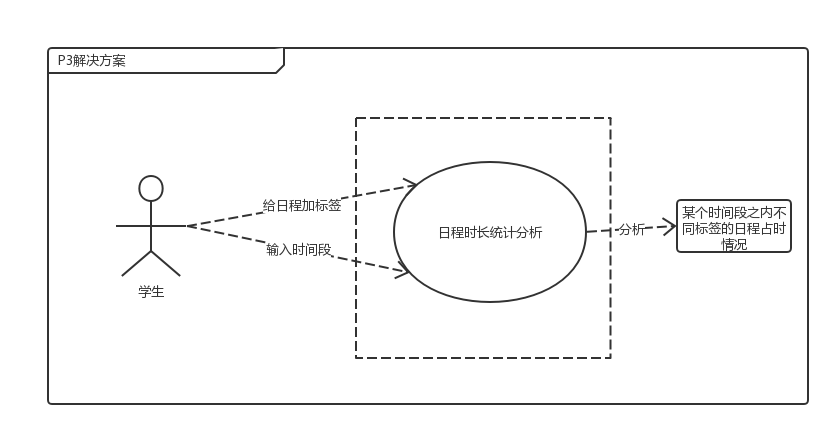
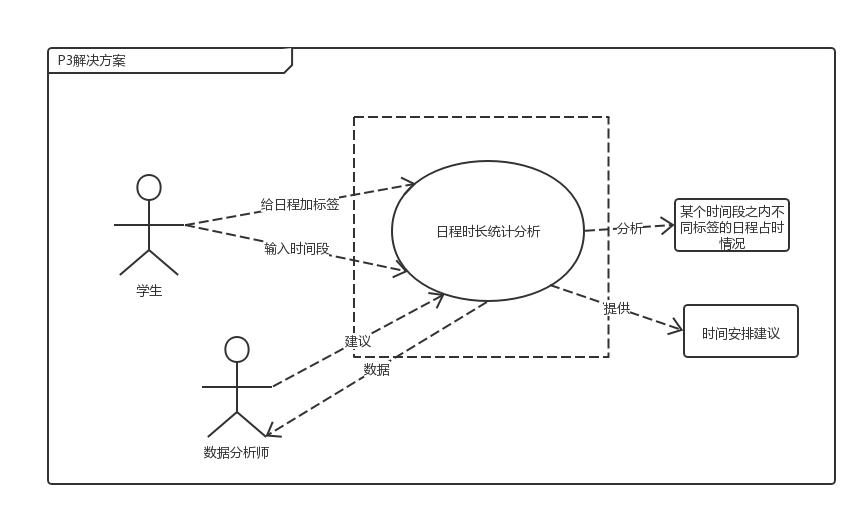
在解决方案部分增加数据分析师的有关内容

diff --git a/过程分析文档.md b/过程分析文档.md
@@ -1,3 +1,5 @@
+
+
 # 课程与日程管理系统过程分析文档
 
 **南京大学软件学院16级本科**
@@ -161,21 +163,21 @@
  在明确问题的同时，我们同步进行了涉众分析。通过涉众识别，我们得到了以下涉众扩展特征描述表：
 
 | 涉众       | 特征                                                 | 主要目标                                                  | 态度                                                         | 主要关注点                                           | 约束条件                             |
-  | ---------- | ---------------------------------------------------- | --------------------------------------------------------- | ------------------------------------------------------------ | ---------------------------------------------------- | ------------------------------------ |
-  | 学生       | 工作日里都或多或少有课程安排                         | 利用好课余时间，使自己更加充实                            | 支持                                                         | 保证自己能够更加合理的安排时间，提高自我的学习效率。 | 无                                   |
-  | 老板       | 项目的投资者                                         | 获得收益                                                  | 强烈支持                                                     | 能够有更多的学生使用该app，扩大产品的流量            | 可能没有足够多懂得使用软件系统 |
-  | 数据分析员 | 能够对学生的日程安排进行分析，给学生提出日程安排建议 | 能够及时地帮助学生提出均衡合适的安排建议 | 支持，但是担心自己会因给出建议效果不佳，学生卸载软件，导致丢掉工作 | 为学生制定个人化的日程时间安排                       | 无                                   |
-  | 教务平台   | 存储了学生的课程信息                                 | 当请求导出课程表时，能返回课程表信息                      | 支持                                                         | 能够方便地导出课程表                                 | 无                                   |
-  | 社交平台   | 动态分享                                             | 能够将系统生成的待办事物列表分享到社交平台上                  | 支持                                                             | 能够实时地分享待办事物列表到社交平台上                   | 无                                     |
- 
+| ---------- | ---------------------------------------------------- | --------------------------------------------------------- | ------------------------------------------------------------ | ---------------------------------------------------- | ------------------------------------ |
+| 学生       | 工作日里都或多或少有课程安排                         | 利用好课余时间，使自己更加充实                            | 支持                                                         | 保证自己能够更加合理的安排时间，提高自我的学习效率。 | 无                                   |
+| 老板       | 项目的投资者                                         | 获得收益                                                  | 强烈支持                                                     | 能够有更多的学生使用该app，扩大产品的流量            | 可能没有足够多懂得使用软件系统 |
+| 数据分析员 | 能够对学生的日程安排进行分析，给学生提出日程安排建议 | 能够及时地帮助学生提出均衡合适的安排建议 | 支持，但是担心自己会因给出建议效果不佳，学生卸载软件，导致丢掉工作 | 为学生制定个人化的日程时间安排                       | 无                                   |
+| 教务平台   | 存储了学生的课程信息                                 | 当请求导出课程表时，能返回课程表信息                      | 支持                                                         | 能够方便地导出课程表                                 | 无                                   |
+| 社交平台   | 动态分享                                             | 能够将系统生成的待办事物列表分享到社交平台上                  | 支持                                                             | 能够实时地分享待办事物列表到社交平台上                   | 无                                     |
+
  #### 2.2 涉众评估
- 
+
  为了得到更深层次的涉众信息，我们采用了优先级评估涉众的方法，做出了如下User/Task 矩阵，用来评估涉众的优先级：
- 
-   | 用户群体   | 任务                                                         | 群体数量 | 优先级 |
-   | ---------- | ------------------------------------------------------------ | -------- | ------ |
-   | 学生       | 查看课程表，制定一段日期内的日程安排，查看某段日程安排的时间分配情况，可以分享自己的待办事项列表。 | 数量不限 | 5      |
-  | 数据分析员 | 给学生提出日程安排建议                                       | 10       | 2      |
+
+| 用户群体   | 任务                                                         | 群体数量 | 优先级 |
+| ---------- | ------------------------------------------------------------ | -------- | ------ |
+| 学生       | 查看课程表，制定一段日期内的日程安排，查看某段日程安排的时间分配情况，可以分享自己的待办事项列表。 | 数量不限 | 5      |
+| 数据分析员 | 给学生提出日程安排建议                                       | 10       | 2      |
 
 
 ### 3. 发现业务需求
@@ -205,18 +207,18 @@
 | ID     | P3                                                           |
 | 提出者 | 老板                                                         |
 | 关联者 | 学生                                                         |
-| 问题   | 不能了解日程安排情况，没有时长统计分析，学生得到的数据分析不直观 |
+| 问题   | 不能了解日程安排情况，学生得到的时长统计分析不直观不明确     |
 | 影响   | 学生不能制定标签来划分自己的时间安排分析                     |
 | 目标   | 第一版应用之后的3个月，90%以上的学生通过该系统的标签生成统计信息 |
 
-| 要素   | 内容                                                   |
-| ------ | ------------------------------------------------------ |
-| ID     | P4                                                     |
-| 提出者 | 老板                                                   |
-| 关联者 | 学生                                                   |
-| 问题   | 不能生成便于分享的每日待办事项，软件分享量过低         |
-| 影响   | 学生不能方便地与他人交流自己的安排，且不利于系统的推广 |
-| 目标   | 第一版应用之后的3个月，该应用的分享量达3万次           |
+| 要素   | 内容                                                        |
+| ------ | ----------------------------------------------------------- |
+| ID     | P4                                                          |
+| 提出者 | 老板                                                        |
+| 关联者 | 学生                                                        |
+| 问题   | 不能生成便于分享的每日待办事项，软件使用量分享量过低        |
+| 影响   | 学生不能方便地与他人交流自己的安排，且不利于系统的推广      |
+| 目标   | 第一版应用之后的3个月，该应用的使用量达5万次，分享量达3万次 |
 
 
 
@@ -230,7 +232,7 @@
 | ---- | ------------------------------------------------------------ |
 | P1   | S1:提供教务网导入或手动输入课程信息的功能，并可以生成相应的日程安排 |
 | P2   | S2:提供供用户输入事项并帮助其进行日程安排的功能              |
-| P3   | S3:允许用户给日程添加标签<br />S4:提供根据标签和时间段进行查看日程情况的功能<br />S5:找到并提供比较有价值的分析数据 |
+| P3   | S3:允许用户给日程添加标签<br />S4:提供根据标签和时间段进行查看日程情况的功能<br />S5:数据分析师根据已有数据提供比较有价值的分析数据 |
 | P4   | S6:允许通过日程表自动生成便于分享的待办事项列表<br />S7:允许用户将待办事项列表转发至社交软件<br />S8:加大宣传力度 |
 
 	然后，我们对每个问题分析不同方案的业务优势和代价，将它们一一用标准化的格式描述成表：
@@ -263,6 +265,13 @@
 | 解决方案 | 业务优势 | 数据更加直观，直观有效的数据分析利于用户的效率提高 |
 |          | 代价     | 实现此功能模块所需的软件费用                       |
 
+| 要素     |          | 内容                                           |
+| -------- | -------- | ---------------------------------------------- |
+| ID       |          | P3                                             |
+|          | 方案描述 | 数据分析师根据已有数据提供比较有价值的分析数据 |
+| 解决方案 | 业务优势 | 有价值的数据更能够帮助用户了解情况             |
+|          | 代价     | 带来更多的工作内容和聘用人员的开销             |
+
 | 要素     |          | 内容                                                         |
 | -------- | -------- | ------------------------------------------------------------ |
 | ID       |          | P4                                                           |
@@ -277,6 +286,81 @@
 | 解决方案 | 业务优势 | 可以提高用户的分享量，增加软件的影响力和使用量       |
 |          | 代价     | 实现此功能模块所需的软件费用，增加与各社交软件的接口 |
 
+| 要素     |          | 内容                             |
+| -------- | -------- | -------------------------------- |
+| ID       |          | P4                               |
+|          | 方案描述 | 加大宣传力度                     |
+| 解决方案 | 业务优势 | 提高软件使用量，增加软件的影响力 |
+|          | 代价     | 增加一些宣传所需的费用           |
+
+
+
+	接着，我们与客户召开面谈，为每个问题的几种解决方案协商提出了一致意见。以下是面谈报告 。
+
+| 会见者：方渤镕  侯韵晗 葛宇  徐一舟   <br />被会见者：陈扬帆  <br />日期：2018.10.08  <br />主题：明确具体问题和探讨解决方案   <br />会见目标: 明确上次面谈中模糊的问题   评估和明确各个问题的解决方案 |                                                              |
+| ------------------------------------------------------------ | ------------------------------------------------------------ |
+| 谈话要点：<br />软件使用量不多的具体原因分析	<br />部分解决方案 | 被会见者的观点: <br />使用量不高的原因是软件本身功能不够完善、分享功能缺乏吸引力和对外宣传力度不够 <br />每个问题都已经明确 <br />问题的解决方案确定 |
+| 下次会见的目标: <br />对以前的谈话结果进行商讨和最终定版 <br />审阅项目前景和范围文档 |                                                              |
+
+```
+
+```
+
+	
+
+	最后，通过此次面谈和探讨，开发人员和客户对每个问题都共同确定了以下高层次解决方案: 
+
+| 要素     |          | 内容                                                         |
+| -------- | -------- | ------------------------------------------------------------ |
+| ID       |          | P1                                                           |
+|          | 方案描述 | 提供教务网导入或手动输入课程信息的功能，并生成相应的日程安排 |
+| 解决方案 | 业务优势 | 从教务网一键导入可以使导入课程操作更加便捷，提供手动导入功能可以使安排更加灵活，同时可以修正一键导入后的错误。 |
+|          | 代价     | 实现此功能模块所需的软件费用，需要根据不同学校教务网的教程信息格式进行信息提取 |
+
+| 要素     |          | 内容                                                         |
+| -------- | -------- | ------------------------------------------------------------ |
+| ID       |          | P2                                                           |
+|          | 方案描述 | 提供供用户输入事项并帮助其进行日程安排的功能                 |
+| 解决方案 | 业务优势 | 智能地进行日程安排可以给用户更大的自主权，允许固定地安排类似每周每一天、每周工作日都需要做的日程安排，该安排可以根据节假日、周末等等自动填充一段日期之间的日程表，不再需要手动输入 |
+|          | 代价     | 实现此功能模块所需的软件费用                                 |
+
+| 要素     |          | 内容                                                   |
+| -------- | -------- | ------------------------------------------------------ |
+| ID       |          | P3                                                     |
+|          | 方案描述 | 允许学生给日程添加标签                                 |
+| 解决方案 | 业务优势 | 可以对日程进行分类，从而更加方便进行日程管理和数据统计 |
+|          | 代价     | 实现此功能模块所需的软件费用                           |
+
+| 要素     |          | 内容                                               |
+| -------- | -------- | -------------------------------------------------- |
+| ID       |          | P3                                                 |
+|          | 方案描述 | 提供根据标签和时间段进行查看日程情况的功能         |
+| 解决方案 | 业务优势 | 数据更加直观，直观有效的数据分析利于用户的效率提高 |
+|          | 代价     | 实现此功能模块所需的软件费用                       |
+
+| 要素     |          | 内容                                           |
+| -------- | -------- | ---------------------------------------------- |
+| ID       |          | P3                                             |
+|          | 方案描述 | 数据分析师根据已有数据提供比较有价值的分析数据 |
+| 解决方案 | 业务优势 | 有价值的数据更能够帮助用户了解情况             |
+|          | 代价     | 带来更多的工作内容和聘用人员的开销             |
+
+| 要素     |          | 内容                                                         |
+| -------- | -------- | ------------------------------------------------------------ |
+| ID       |          | P4                                                           |
+|          | 方案描述 | 允许通过日程表自动生成便于分享的待办事项列表                 |
+| 解决方案 | 业务优势 | 清晰有条理的待办事项列表有助于用户查看待办事项，提高事项完成效率 |
+|          | 代价     | 实现此功能模块所需的软件费用                                 |
+
+| 要素     |          | 内容                                                 |
+| -------- | -------- | ---------------------------------------------------- |
+| ID       |          | P4                                                   |
+|          | 方案描述 | 允许用户将待办事项列表转发至社交软件                 |
+| 解决方案 | 业务优势 | 可以提高用户的分享量，增加软件的影响力和使用量       |
+|          | 代价     | 实现此功能模块所需的软件费用，增加与各社交软件的接口 |
+
+
+
 #### 4.2 确定系统特性和解决方案的边界
 
 	在选定解决方案之后，我们进一步明确了该解决方案需要具备的功能特征，即系统特征:
@@ -285,7 +369,7 @@
 | ---------- | ------------------------------------------------------------ |
 | P1         | 系统提供教务网导入或手动输入课程信息的功能，从而显示在日程安排中 |
 | P2         | 提供供用户输入事项并帮助其进行日程安排的功能                 |
-| P3         | 1.系统允许用户给日程添加标签<br />2.提供根据标签和时间段进行查看日程情况的功能 |
+| P3         | 1.系统允许用户给日程添加标签<br />2.提供根据标签和时间段进行查看日程情况的功能<br />3.数据分析师根据已有数据提供比较有价值的分析数据 |
 | P4         | 1.系统允许通过日程表自动生成便于分享的待办事项列表<br />2.允许用户将待办事项列表转发至社交软件 |
 
 
@@ -330,11 +414,11 @@
 
 ##### P4
 
-| 约束源         | 约束                           | 理由                                                       |
-| -------------- | ------------------------------ | ---------------------------------------------------------- |
-| 操作性         | 需要对分享量有一定的统计<br /> | 用来分析目前分享量的情况和未来趋势以及时作出对策和查验效果 |
-| 系统及操作系统 | 需要增加与社交软件间的接口     | 实现分享功能                                               |
-| 技术要求       | 良好的人机交互界面             | 方便用户分享                                               |
+| 约束源         | 约束                                   | 理由                                                         |
+| -------------- | -------------------------------------- | ------------------------------------------------------------ |
+| 操作性         | 需要对使用量和分享量有一定的统计<br /> | 用来分析目前使用量和分享量的情况和未来趋势以及时作出对策和查验效果 |
+| 系统及操作系统 | 需要增加与社交软件间的接口             | 实现分享功能                                                 |
+| 技术要求       | 良好的人机交互界面                     | 方便用户分享                                                 |
 
 
 

diff --git a/第一阶段度量数据.md b/第一阶段度量数据.md
@@ -1,5 +1,5 @@
 第一阶段度量：
 问题数量：4
 每个问题解决方案
-    平均输入/输出数量：(2+1+2+3)/5=1.6
-    平均特性数量：(1+1+2+2)/4=1.5
+    平均输入/输出数量：(3+1+3+3)/（2+1+3+2）=1.25
+    平均特性数量：(1+1+3+2)/4=1.75
